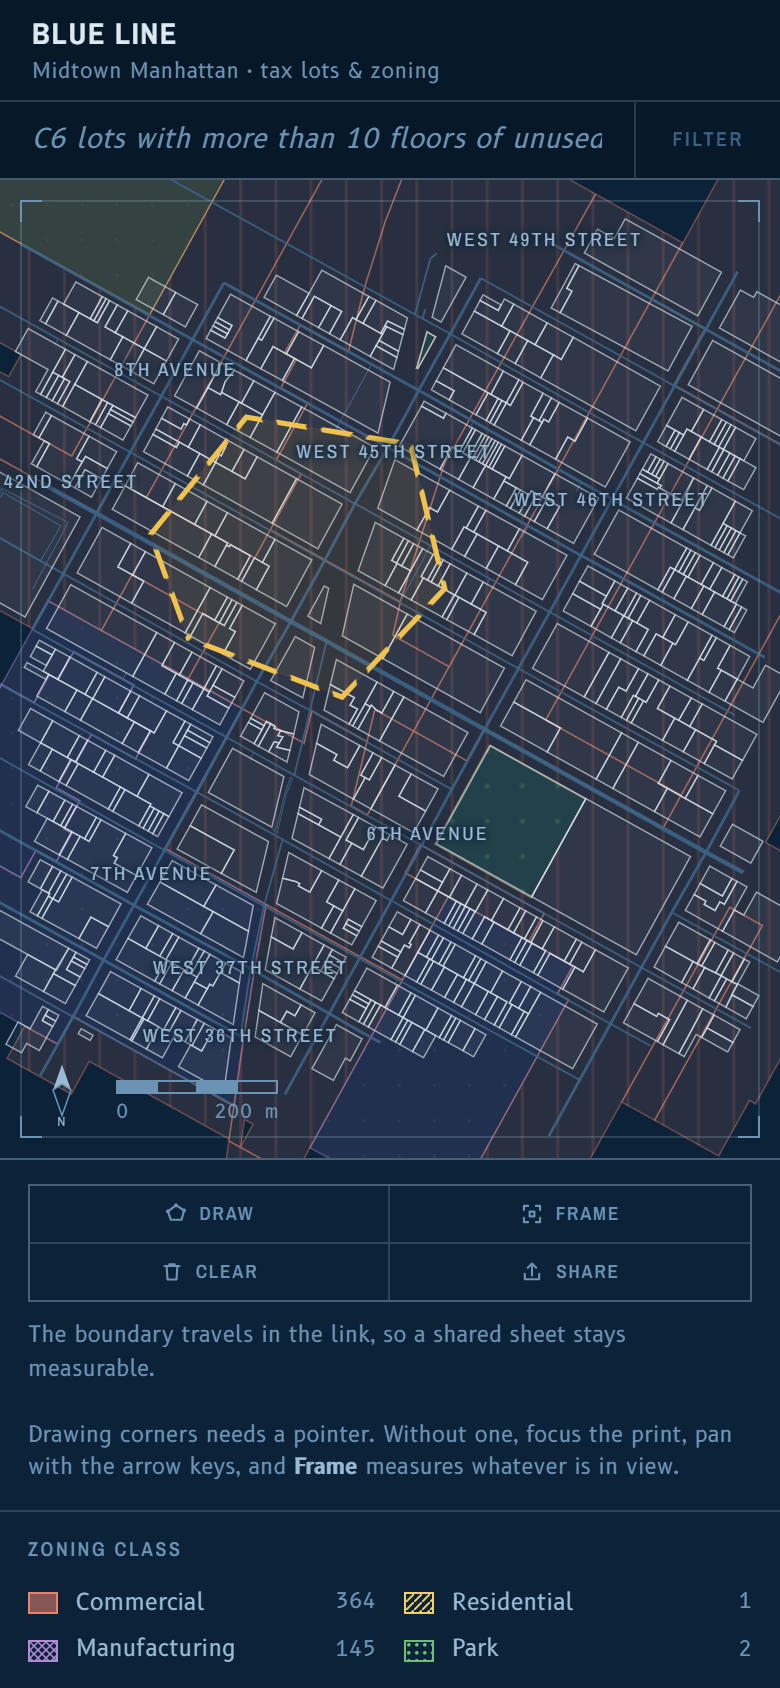
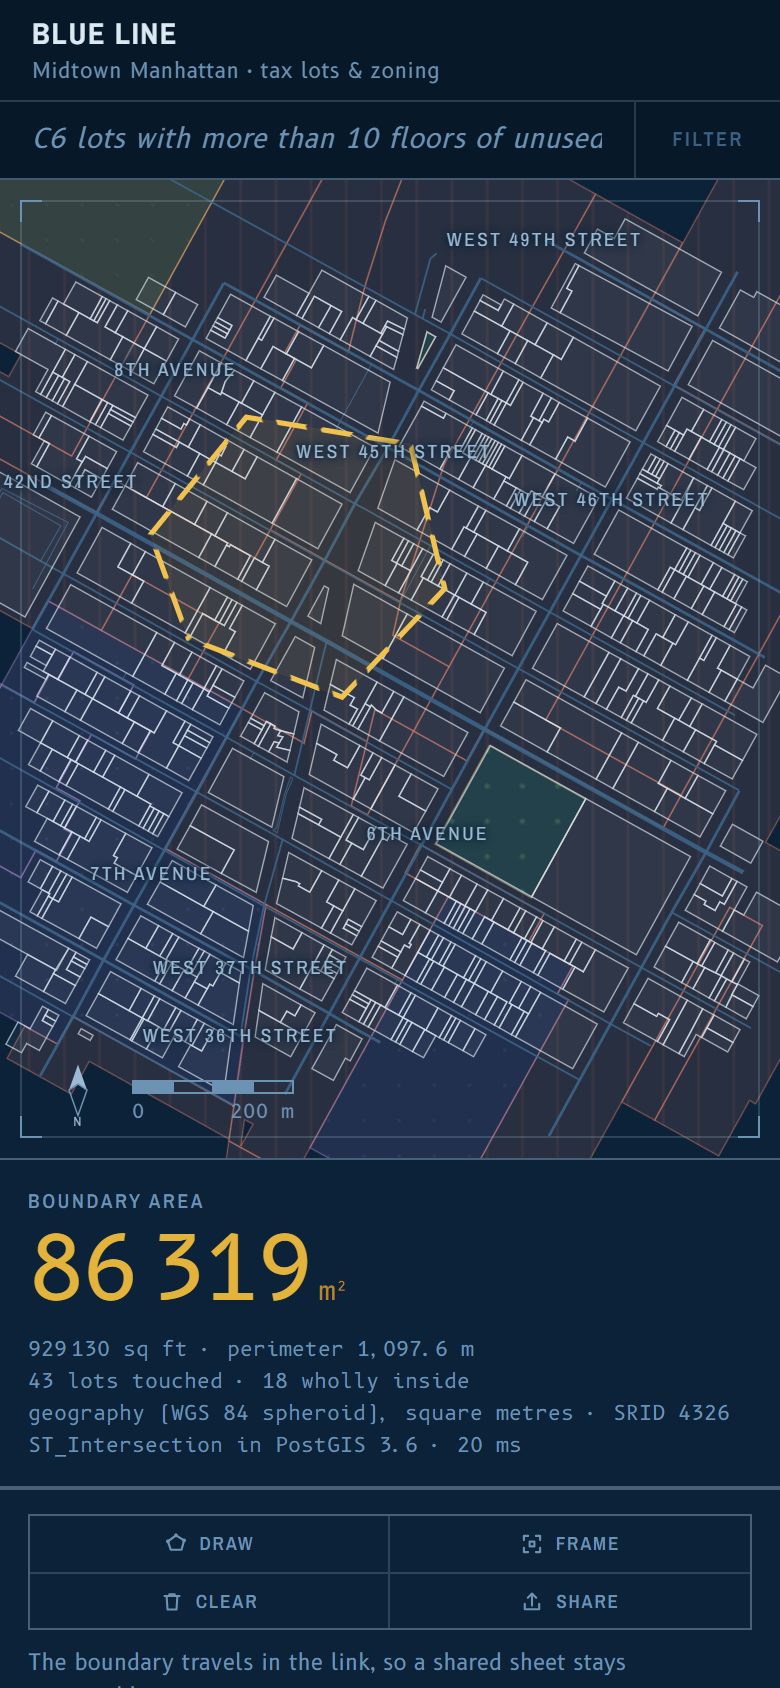
Fix two regressions the verdict pass caught
R1: demoting the whole right rail on mobile pushed the measurement below
the fold, contradicting the confirmed answer that the first viewport must
show a completed analysis. Only the schedule needed demoting. The right
rail is now dissolved with display: contents so the reading keeps its place
under the print and the 40-odd row schedule drops below the legend.

R2: the trim inset from the canvas rather than the visible print aperture,
so on desktop both side edges and all four corner ticks hid behind the
rails and the top rule read as a stray doubled hairline under the title
block. Rail widths are now tokens the trim, the sheet furniture and
fitBounds all read from.

Also backed off the commercial hatch alpha. C is the ground class here at
364 of 512 lots, so its texture covered nearly the whole print; the channel
earns its keep at the boundaries between classes, not across the field.

Verified: 7 of 8 fixes from the review scored resolved, the eighth partial;
both regressions and the partial are addressed and confirmed in fresh
production captures at both viewports.

diff --git a/app/globals.css b/app/globals.css
@@ -36,6 +36,11 @@
   --rule: rgba(157, 189, 214, 0.22);
   --rule-strong: rgba(157, 189, 214, 0.4);
 
+  /* Rail widths are tokens because the trim, the furniture and the print
+     aperture all have to agree on where the paper actually starts. */
+  --rail-l: 232px;
+  --rail-r: 344px;
+
   /* A drawing sheet is measured in whole units. */
   --u: 4px;
   --gutter: 14px;
@@ -171,13 +176,13 @@ textarea {
 
 .rail-left {
   left: 0;
-  width: 232px;
+  width: var(--rail-l);
   border-right: 1px solid var(--rule-strong);
 }
 
 .rail-right {
   right: 0;
-  width: 344px;
+  width: var(--rail-r);
   border-left: 1px solid var(--rule-strong);
 }
 
@@ -693,11 +698,9 @@ textarea {
 /* --------------------------------------------------------------- responsive */
 
 @media (max-width: 1100px) {
-  .rail-right {
-    width: 300px;
-  }
-  .rail-left {
-    width: 200px;
+  :root {
+    --rail-l: 200px;
+    --rail-r: 300px;
   }
 }
 
@@ -789,7 +792,7 @@ textarea {
    what tells you the print has a boundary and you are seeing all of it. */
 .trim {
   position: absolute;
-  inset: 10px;
+  inset: 10px calc(var(--rail-r) + 10px) 10px calc(var(--rail-l) + 10px);
   border: 1px solid var(--rule);
   pointer-events: none;
   z-index: 2;
@@ -825,7 +828,7 @@ textarea {
 
 .sheet-furniture {
   position: absolute;
-  left: 262px;
+  left: calc(var(--rail-l) + 30px);
   bottom: 22px;
   z-index: 4;
   display: flex;
@@ -860,8 +863,7 @@ textarea {
   letter-spacing: 0.02em;
 }
 
-@media (max-width: 1100px) { .sheet-furniture { left: 228px; } }
-@media (max-width: 860px) { .sheet-furniture { left: 22px; bottom: 16px; } }
+@media (max-width: 860px) { .sheet-furniture { bottom: 16px; } }
 
 /* Four tools do not fit one 232px row without clipping a label. */
 .tool-row {
@@ -874,3 +876,46 @@ textarea {
 .tool:nth-child(n + 3) { border-bottom: none; }
 
 .scalebar-label { display: flex; justify-content: space-between; }
+
+/* ------------------------------------------------- narrow sheet, corrected */
+
+@media (max-width: 860px) {
+  :root {
+    /* Rails go static below this width, so the print occupies the full sheet
+       and the trim frames all four of its edges. */
+    --rail-l: 0px;
+    --rail-r: 0px;
+  }
+
+  /* Demote the schedule, not the reading. The first viewport has to show a
+     completed analysis, and the measurement is that analysis; only the
+     40-odd row schedule belongs below the legend. Dissolving the right rail
+     lets its children take their own places in the stack. */
+  .rail-right {
+    display: contents;
+  }
+
+  .rail-right > .reading {
+    order: 2;
+    background: var(--sheet);
+    border-top: 1px solid var(--rule-strong);
+    border-bottom: 1px solid var(--rule-strong);
+  }
+
+  .rail-left {
+    order: 3;
+  }
+
+  .rail-right > .rail-section {
+    order: 4;
+    background: var(--sheet);
+    border-top: 1px solid var(--rule-strong);
+  }
+
+  .rail-right > .rail-scroll {
+    order: 5;
+    background: var(--sheet);
+    border-top: 1px solid var(--rule-strong);
+    max-height: none;
+  }
+}

diff --git a/components/MapSheet.tsx b/components/MapSheet.tsx
@@ -64,7 +64,11 @@ function framePadding(m: MLMap) {
  * whole meaning in hue is the exact failure PRODUCT.md names. These patterns
  * match the hatches on the legend swatches.
  */
-function hatchImage(kind: 'vertical' | 'diagonal' | 'cross' | 'dots' | 'horizontal', hex: string) {
+function hatchImage(
+  kind: 'vertical' | 'diagonal' | 'cross' | 'dots' | 'horizontal',
+  hex: string,
+  alpha = 0.55,
+) {
   const S = 24; // 12 css px at pixelRatio 2 — wide enough to stay a texture
   const c = document.createElement('canvas');
   c.width = S;
@@ -76,7 +80,7 @@ function hatchImage(kind: 'vertical' | 'diagonal' | 'cross' | 'dots' | 'horizont
   g.strokeStyle = hex;
   g.fillStyle = hex;
   g.lineWidth = 1.5;
-  g.globalAlpha = 0.55;
+  g.globalAlpha = alpha;
 
   // Line-based only. A filled tile floods the print and the sheet stops being
   // white linework on Prussian ground, which is the whole thesis.
@@ -229,14 +233,14 @@ export default function MapSheet({
         load('parcels'), load('zoning'), load('streets'),
       ]);
 
-      for (const [id, kind, hex] of [
-        ['hatch-C', 'vertical', '#e8836b'],
-        ['hatch-R', 'diagonal', '#f0d264'],
-        ['hatch-M', 'cross', '#b08bd6'],
-        ['hatch-PARK', 'dots', '#6fbf73'],
-        ['hatch-OTHER', 'horizontal', '#7fa8c9'],
+      for (const [id, kind, hex, alpha] of [
+        ['hatch-C', 'vertical', '#e8836b', 0.3],
+        ['hatch-R', 'diagonal', '#f0d264', 0.6],
+        ['hatch-M', 'cross', '#b08bd6', 0.6],
+        ['hatch-PARK', 'dots', '#6fbf73', 0.7],
+        ['hatch-OTHER', 'horizontal', '#7fa8c9', 0.5],
       ] as const) {
-        const img = hatchImage(kind, hex);
+        const img = hatchImage(kind, hex, alpha);
         if (img && !m.hasImage(id)) m.addImage(id, img, { pixelRatio: 2 });
       }
 
